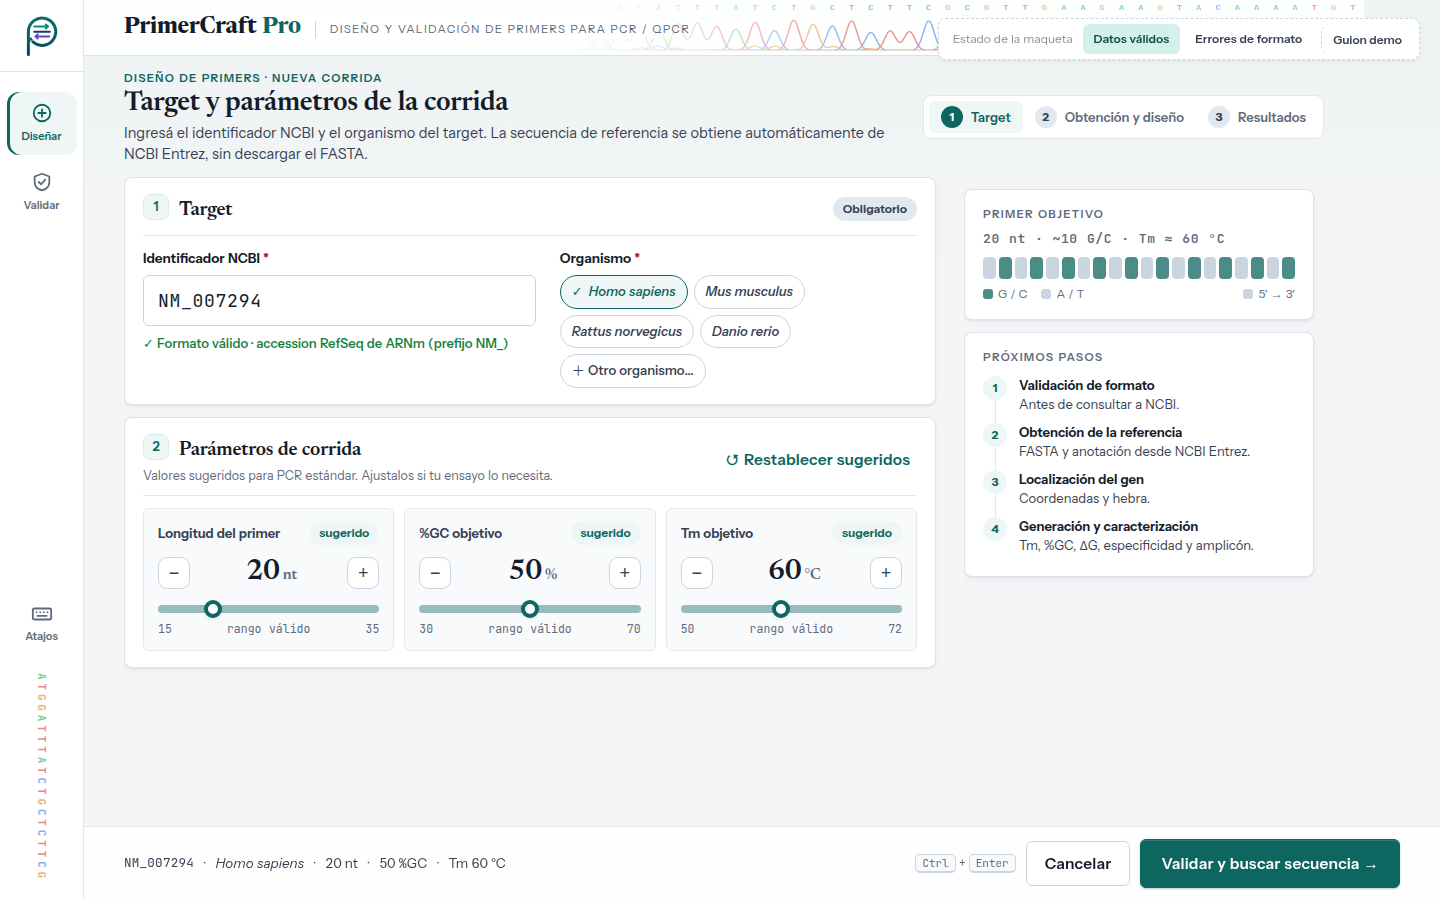
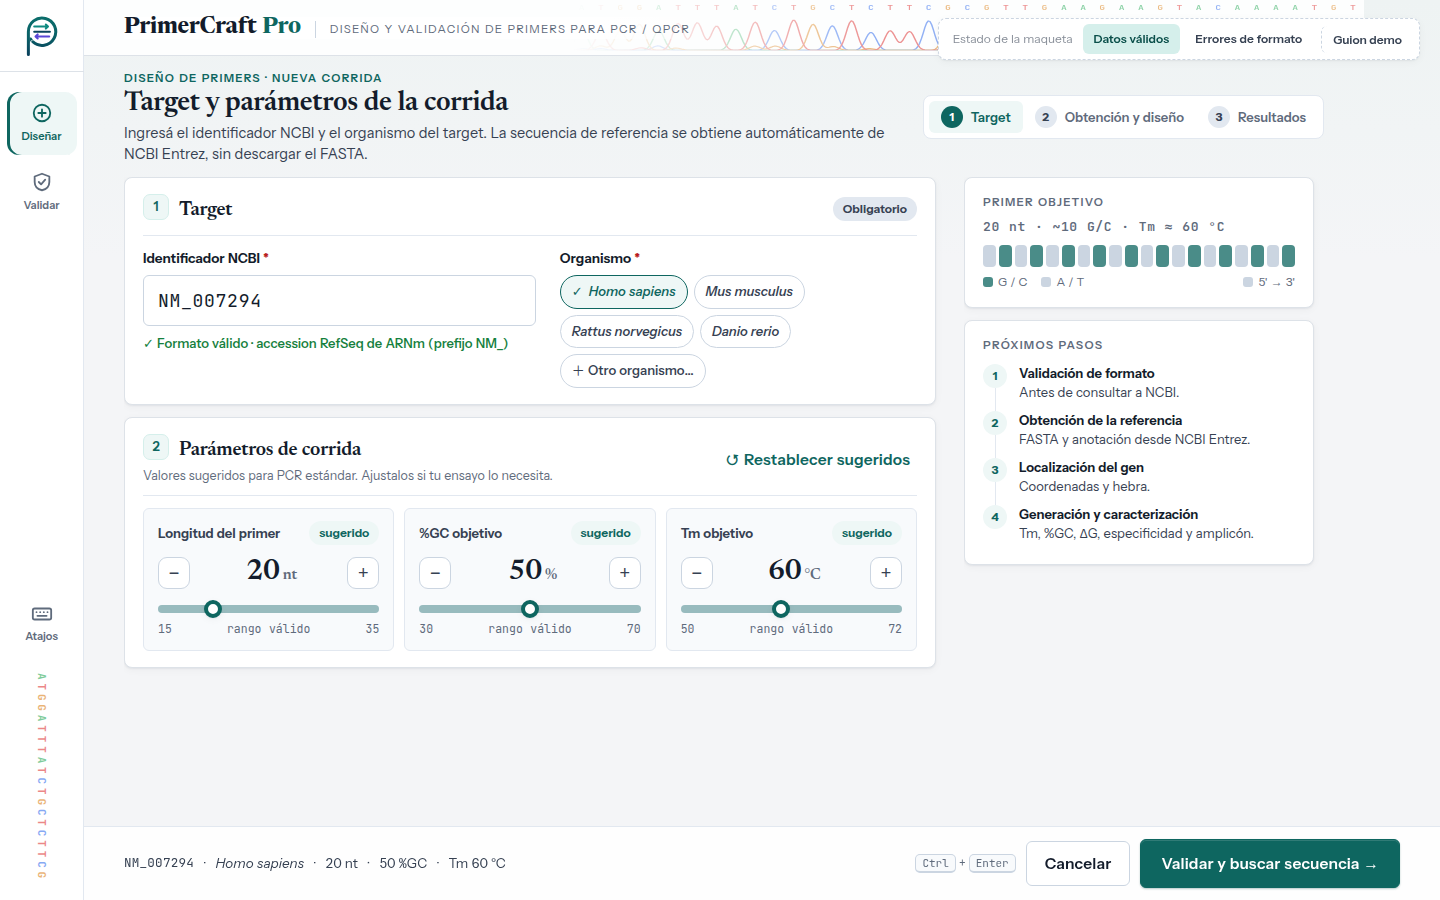
fix(mockups): ajusto la columna lateral de ui-1 y agrego el caso de ncbi no disponible al guion de la demo

Changed region(s): [[0.6875, 0.3733, 0.875, 0.6222], [0.6562, 0.2178, 0.9062, 0.3422]]

diff --git a/docs/ui/mockups/hu-01-1_nueva-corrida-diseno.html b/docs/ui/mockups/hu-01-1_nueva-corrida-diseno.html
@@ -500,10 +500,6 @@ div.l{display:block;font-weight:650;font-size:13.5px;margin-bottom:7px}
   [data-pantalla=ui-4] .ruler span{padding:3px 0 2px}
   [data-pantalla=ui-4] .v1 .split>div>.card+.card,[data-pantalla=ui-4] .v1 .split>aside>.card:first-child{align-self:start}
 }
-/* En ventanas de menos de 900 px de alto la ilustración decorativa de UI-1 cede su lugar */
-@media (min-width:1101px) and (max-height:900px){
-  [data-pantalla=ui-1] .illus{display:none}
-}
 @media (min-width:1101px) and (max-height:740px){
   [data-pantalla=ui-3] .metrics .th{display:none}
 }
@@ -664,10 +660,6 @@ dialog.dlg .row{display:flex;gap:10px;justify-content:flex-end;margin-top:22px;f
     </div>
 
     <aside class="sticky">
-      <section class="card illus">
-        <svg viewBox="0 0 340 210" width="100%" role="img" aria-label="Ilustración: del cromosoma 17 al gen BRCA1 y a la doble hélice donde hibridan los primers forward y reverse"><defs><clipPath id="chr"><path d="M30 16h50q6 0 9 7q3-7 9-7h212a8 8 0 0 1 0 16H98q-6 0-9-7q-3 7-9 7H30a8 8 0 0 1 0-16z"/></clipPath></defs><g clip-path="url(#chr)"><rect x="20" y="16" width="310" height="16" fill="#f1f3f6"/><rect x="22" y="16" width="18" height="16" fill="#475569" opacity="0.15"/><rect x="40" y="16" width="18" height="16" fill="#475569" opacity="0.55"/><rect x="58" y="16" width="16" height="16" fill="#475569" opacity="0.20"/><rect x="74" y="16" width="12" height="16" fill="#475569" opacity="0.70"/><rect x="92" y="16" width="12" height="16" fill="#475569" opacity="0.35"/><rect x="104" y="16" width="18" height="16" fill="#475569" opacity="0.10"/><rect x="122" y="16" width="18" height="16" fill="#475569" opacity="0.60"/><rect x="140" y="16" width="20" height="16" fill="#475569" opacity="0.20"/><rect x="160" y="16" width="16" height="16" fill="#475569" opacity="0.75"/><rect x="176" y="16" width="20" height="16" fill="#475569" opacity="0.30"/><rect x="196" y="16" width="18" height="16" fill="#475569" opacity="0.05"/><rect x="214" y="16" width="22" height="16" fill="#475569" opacity="0.50"/><rect x="236" y="16" width="18" height="16" fill="#475569" opacity="0.15"/><rect x="254" y="16" width="18" height="16" fill="#475569" opacity="0.65"/><rect x="272" y="16" width="20" height="16" fill="#475569" opacity="0.25"/><rect x="292" y="16" width="26" height="16" fill="#475569" opacity="0.45"/><rect x="198" y="16" width="14" height="16" fill="var(--primary)"/></g><path d="M30 16h50q6 0 9 7q3-7 9-7h212a8 8 0 0 1 0 16H98q-6 0-9-7q-3 7-9 7H30a8 8 0 0 1 0-16z" fill="none" stroke="#334155" stroke-width="1.2"/><text x="22" y="11" class="il-t">Cromosoma 17</text><text x="205" y="11" text-anchor="middle" class="il-t" fill="var(--primary)">17q21.31</text><path d="M198 32L24 64M212 32L316 64" stroke="var(--primary)" stroke-width="1" stroke-dasharray="3 3" opacity=".6" fill="none"/><line x1="24" y1="76" x2="316" y2="76" stroke="#334155" stroke-width="1.4"/><rect x="28" y="69" width="8" height="14" rx="1.5" fill="var(--primary)"/><rect x="52" y="69" width="5" height="14" rx="1.5" fill="var(--primary)"/><rect x="70" y="69" width="12" height="14" rx="1.5" fill="var(--primary)"/><rect x="98" y="69" width="6" height="14" rx="1.5" fill="var(--primary)"/><rect x="118" y="69" width="22" height="14" rx="1.5" fill="var(--primary)"/><rect x="158" y="69" width="7" height="14" rx="1.5" fill="var(--primary)"/><rect x="180" y="69" width="5" height="14" rx="1.5" fill="var(--primary)"/><rect x="200" y="69" width="14" height="14" rx="1.5" fill="var(--primary)"/><rect x="230" y="69" width="6" height="14" rx="1.5" fill="var(--primary)"/><rect x="250" y="69" width="9" height="14" rx="1.5" fill="var(--primary)"/><rect x="276" y="69" width="5" height="14" rx="1.5" fill="var(--primary)"/><rect x="296" y="69" width="16" height="14" rx="1.5" fill="var(--primary)"/><path d="M39 76l5 -3m-5 3l5 3" stroke="#334155" stroke-width="1" fill="none"/><path d="M83 76l5 -3m-5 3l5 3" stroke="#334155" stroke-width="1" fill="none"/><path d="M139 76l5 -3m-5 3l5 3" stroke="#334155" stroke-width="1" fill="none"/><path d="M217 76l5 -3m-5 3l5 3" stroke="#334155" stroke-width="1" fill="none"/><path d="M263 76l5 -3m-5 3l5 3" stroke="#334155" stroke-width="1" fill="none"/><text x="24" y="100" class="il-t">BRCA1 · hebra −</text><text x="316" y="100" text-anchor="end" class="il-m">chr17: 43 044 295 – 43 125 483</text><rect x="118" y="66" width="22" height="20" fill="none" stroke="var(--rev)" stroke-width="1.5" rx="2"/><path d="M118 86V106L24 124M140 86V106L316 124" stroke="var(--rev)" stroke-width="1" stroke-dasharray="3 3" opacity=".6" fill="none"/><line x1="28.0" y1="165.6" x2="28.0" y2="154.4" stroke="var(--bA)" stroke-width="2.6" stroke-linecap="round" opacity="0.93"/><line x1="36.6" y1="175.9" x2="36.6" y2="144.1" stroke="var(--bT)" stroke-width="2.6" stroke-linecap="round" opacity="0.76"/><line x1="45.2" y1="181.5" x2="45.2" y2="138.5" stroke="var(--bG)" stroke-width="2.6" stroke-linecap="round" opacity="0.48"/><line x1="53.8" y1="180.7" x2="53.8" y2="139.3" stroke="var(--bG)" stroke-width="2.6" stroke-linecap="round" opacity="0.55"/><line x1="62.4" y1="173.8" x2="62.4" y2="146.2" stroke="var(--bA)" stroke-width="2.6" stroke-linecap="round" opacity="0.82"/><line x1="71.0" y1="162.8" x2="71.0" y2="157.2" stroke="var(--bT)" stroke-width="2.6" stroke-linecap="round" opacity="0.95"/><line x1="79.6" y1="150.9" x2="79.6" y2="169.1" stroke="var(--bT)" stroke-width="2.6" stroke-linecap="round" opacity="0.90"/><line x1="88.2" y1="141.8" x2="88.2" y2="178.2" stroke="var(--bT)" stroke-width="2.6" stroke-linecap="round" opacity="0.69"/><line x1="96.8" y1="138.0" x2="96.8" y2="182.0" stroke="var(--bA)" stroke-width="2.6" stroke-linecap="round" opacity="0.38"/><line x1="105.5" y1="140.8" x2="105.5" y2="179.2" stroke="var(--bT)" stroke-width="2.6" stroke-linecap="round" opacity="0.64"/><line x1="114.1" y1="149.3" x2="114.1" y2="170.7" stroke="var(--bC)" stroke-width="2.6" stroke-linecap="round" opacity="0.87"/><line x1="122.7" y1="160.9" x2="122.7" y2="159.1" stroke="var(--bT)" stroke-width="2.6" stroke-linecap="round" opacity="0.95"/><line x1="131.3" y1="172.3" x2="131.3" y2="147.7" stroke="var(--bG)" stroke-width="2.6" stroke-linecap="round" opacity="0.85"/><line x1="139.9" y1="180.0" x2="139.9" y2="140.0" stroke="var(--bC)" stroke-width="2.6" stroke-linecap="round" opacity="0.60"/><line x1="148.5" y1="181.8" x2="148.5" y2="138.2" stroke="var(--bT)" stroke-width="2.6" stroke-linecap="round" opacity="0.43"/><line x1="157.1" y1="177.1" x2="157.1" y2="142.9" stroke="var(--bC)" stroke-width="2.6" stroke-linecap="round" opacity="0.73"/><line x1="165.7" y1="167.3" x2="165.7" y2="152.7" stroke="var(--bT)" stroke-width="2.6" stroke-linecap="round" opacity="0.92"/><line x1="174.3" y1="155.4" x2="174.3" y2="164.6" stroke="var(--bT)" stroke-width="2.6" stroke-linecap="round" opacity="0.94"/><line x1="182.9" y1="144.8" x2="182.9" y2="175.2" stroke="var(--bC)" stroke-width="2.6" stroke-linecap="round" opacity="0.78"/><line x1="191.5" y1="138.7" x2="191.5" y2="181.3" stroke="var(--bG)" stroke-width="2.6" stroke-linecap="round" opacity="0.50"/><line x1="200.1" y1="139.0" x2="200.1" y2="181.0" stroke="var(--bC)" stroke-width="2.6" stroke-linecap="round" opacity="0.53"/><line x1="208.7" y1="145.4" x2="208.7" y2="174.6" stroke="var(--bG)" stroke-width="2.6" stroke-linecap="round" opacity="0.80"/><line x1="217.3" y1="156.3" x2="217.3" y2="163.7" stroke="var(--bT)" stroke-width="2.6" stroke-linecap="round" opacity="0.94"/><line x1="225.9" y1="168.2" x2="225.9" y2="151.8" stroke="var(--bT)" stroke-width="2.6" stroke-linecap="round" opacity="0.91"/><line x1="234.5" y1="177.7" x2="234.5" y2="142.3" stroke="var(--bG)" stroke-width="2.6" stroke-linecap="round" opacity="0.71"/><line x1="243.2" y1="181.9" x2="243.2" y2="138.1" stroke="var(--bA)" stroke-width="2.6" stroke-linecap="round" opacity="0.40"/><line x1="251.8" y1="179.7" x2="251.8" y2="140.3" stroke="var(--bA)" stroke-width="2.6" stroke-linecap="round" opacity="0.62"/><line x1="260.4" y1="171.6" x2="260.4" y2="148.4" stroke="var(--bG)" stroke-width="2.6" stroke-linecap="round" opacity="0.86"/><line x1="269.0" y1="160.0" x2="269.0" y2="160.0" stroke="var(--bA)" stroke-width="2.6" stroke-linecap="round" opacity="0.95"/><line x1="277.6" y1="148.5" x2="277.6" y2="171.5" stroke="var(--bA)" stroke-width="2.6" stroke-linecap="round" opacity="0.86"/><line x1="286.2" y1="140.4" x2="286.2" y2="179.6" stroke="var(--bG)" stroke-width="2.6" stroke-linecap="round" opacity="0.62"/><line x1="294.8" y1="138.1" x2="294.8" y2="181.9" stroke="var(--bT)" stroke-width="2.6" stroke-linecap="round" opacity="0.40"/><line x1="303.4" y1="142.3" x2="303.4" y2="177.7" stroke="var(--bA)" stroke-width="2.6" stroke-linecap="round" opacity="0.71"/><line x1="312.0" y1="151.7" x2="312.0" y2="168.3" stroke="var(--bC)" stroke-width="2.6" stroke-linecap="round" opacity="0.91"/><polyline points="24,160.0 27,164.2 30,168.3 33,172.0 36,175.3 39,178.0 42,180.1 45,181.4 48,182.0 51,181.7 54,180.6 57,178.8 60,176.3 63,173.2 66,169.5 69,165.6 72,161.4 75,157.2 78,153.1 81,149.2 84,145.7 87,142.8 90,140.5 93,138.9 96,138.1 99,138.1 102,138.9 105,140.5 108,142.8 111,145.7 114,149.2 117,153.1 120,157.2 123,161.4 126,165.6 129,169.5 132,173.2 135,176.3 138,178.8 141,180.6 144,181.7 147,182.0 150,181.4 153,180.1 156,178.0 159,175.3 162,172.0 165,168.3 168,164.2 171,160.0 174,155.8 177,151.7 180,148.0 183,144.7 186,142.0 189,139.9 192,138.6 195,138.0 198,138.3 201,139.4 204,141.2 207,143.7 210,146.8 213,150.5 216,154.4 219,158.6 222,162.8 225,166.9 228,170.8 231,174.3 234,177.2 237,179.5 240,181.1 243,181.9 246,181.9 249,181.1 252,179.5 255,177.2 258,174.3 261,170.8 264,166.9 267,162.8 270,158.6 273,154.4 276,150.5 279,146.8 282,143.7 285,141.2 288,139.4 291,138.3 294,138.0 297,138.6 300,139.9 303,142.0 306,144.7 309,148.0 312,151.7 315,155.8" fill="none" stroke="#1e293b" stroke-width="2.4" stroke-linecap="round" opacity="1"/><polyline points="24,160.0 27,155.8 30,151.7 33,148.0 36,144.7 39,142.0 42,139.9 45,138.6 48,138.0 51,138.3 54,139.4 57,141.2 60,143.7 63,146.8 66,150.5 69,154.4 72,158.6 75,162.8 78,166.9 81,170.8 84,174.3 87,177.2 90,179.5 93,181.1 96,181.9 99,181.9 102,181.1 105,179.5 108,177.2 111,174.3 114,170.8 117,166.9 120,162.8 123,158.6 126,154.4 129,150.5 132,146.8 135,143.7 138,141.2 141,139.4 144,138.3 147,138.0 150,138.6 153,139.9 156,142.0 159,144.7 162,148.0 165,151.7 168,155.8 171,160.0 174,164.2 177,168.3 180,172.0 183,175.3 186,178.0 189,180.1 192,181.4 195,182.0 198,181.7 201,180.6 204,178.8 207,176.3 210,173.2 213,169.5 216,165.6 219,161.4 222,157.2 225,153.1 228,149.2 231,145.7 234,142.8 237,140.5 240,138.9 243,138.1 246,138.1 249,138.9 252,140.5 255,142.8 258,145.7 261,149.2 264,153.1 267,157.2 270,161.4 273,165.6 276,169.5 279,173.2 282,176.3 285,178.8 288,180.6 291,181.7 294,182.0 297,181.4 300,180.1 303,178.0 306,175.3 309,172.0 312,168.3 315,164.2" fill="none" stroke="#1e293b" stroke-width="2.4" stroke-linecap="round" opacity="0.5"/><g><rect x="34" y="124" width="96" height="16" rx="3" fill="var(--fwd)"/><path d="M130 124l8 8-8 8z" fill="var(--fwd)"/><text x="82" y="135.5" text-anchor="middle" fill="#fff" class="il-p">F 5′→3′</text></g><g><rect x="218" y="180" width="96" height="16" rx="3" fill="var(--rev)"/><path d="M218 180l-8 8 8 8z" fill="var(--rev)"/><text x="266" y="191.5" text-anchor="middle" fill="#fff" class="il-p">3′←5′ R</text></g></svg>
-        <p class="hint" style="margin:8px 0 0;text-align:center">Del cromosoma al par de primers: se obtiene un par <b style="color:var(--fwd)">forward</b> / <b style="color:var(--rev)">reverse</b> que flanquea tu región.</p>
-      </section>
       <section class="card">
         <h3>Primer objetivo</h3>
         <div class="seq" style="font-size:13px;color:var(--muted)">20 nt · ~10 G/C · Tm ≈ 60 °C</div>
@@ -1009,7 +1001,7 @@ dialog.dlg .row{display:flex;gap:10px;justify-content:flex-end;margin-top:22px;f
   const CLAVES = ['len', 'gc', 'tm'];
   const estado = { id: D.id, org: D.org, len: D.len, gc: D.gc, tm: D.tm };
 
-  PC.demo('<ul><li>Identificador <code>BRCA-1</code> o <code>NM007294</code> → error de formato en vivo.</li><li>Tm <code>95</code> → parámetro fuera de rango (HU-01.1 esc. 3).</li><li>En UI-2: <code>NM_999999</code> → no existe en NCBI · otro organismo con <code>NM_007294</code> → no coinciden · <code>NC_000017.11</code> → gen no localizado · Tm ≥ 70 °C → sin candidatos.</li><li>Tecla <code>?</code> → atajos.</li></ul>');
+  PC.demo('<ul><li>Identificador <code>BRCA-1</code> o <code>NM007294</code> → error de formato en vivo.</li><li>Tm <code>95</code> → parámetro fuera de rango (HU-01.1 esc. 3).</li><li>En UI-2: <code>NM_999999</code> → no existe en NCBI · <code>NM_503503</code> → NCBI no responde y se reintenta (FI-2) · otro organismo con <code>NM_007294</code> → no coinciden · <code>NC_000017.11</code> → gen no localizado · Tm ≥ 70 °C → sin candidatos.</li><li>Tecla <code>?</code> → atajos.</li></ul>');
 
   /* ---------- Identificador ---------- */
   const id = $('#id', v);

diff --git a/docs/ui/mockups/hu-03-1_validar-primer.html b/docs/ui/mockups/hu-03-1_validar-primer.html
@@ -959,7 +959,7 @@ dialog.dlg .row{display:flex;gap:10px;justify-content:flex-end;margin-top:22px;f
   const F0 = PC.F0, R0 = PC.R0;
   const estado = { fwd: D.fwd || F0, rev: D.rev || R0, id: D.id, org: D.org };
 
-  PC.demo('<ul><li>Pegá <code>ctc cag ttt cac ctc ttg gg</code> → se ignoran espacios y minúsculas.</li><li>Escribí una <code>X</code> o una <code>U</code> → error IUPAC marcado en la posición.</li><li>El par de ejemplo hibrida; si se cambia una base del reverse, UI-5 muestra "No hibrida".</li><li><code>Ctrl + Enter</code> valida.</li></ul>');
+  PC.demo('<ul><li>Pegá <code>ctc cag ttt cac ctc ttg gg</code> → se ignoran espacios y minúsculas.</li><li>Escribí una <code>X</code> o una <code>U</code> → error IUPAC marcado en la posición.</li><li>El par de ejemplo hibrida; si se cambia una base del reverse, UI-5 muestra "No hibrida".</li><li>Identificador <code>NM_503503</code> → en UI-2, NCBI no responde y se reintenta (FI-2).</li><li><code>Ctrl + Enter</code> valida.</li></ul>');
 
   /* ---------- Editores de secuencia ---------- */
   const eds = $$('.ed', v).map((ed, i) => {
